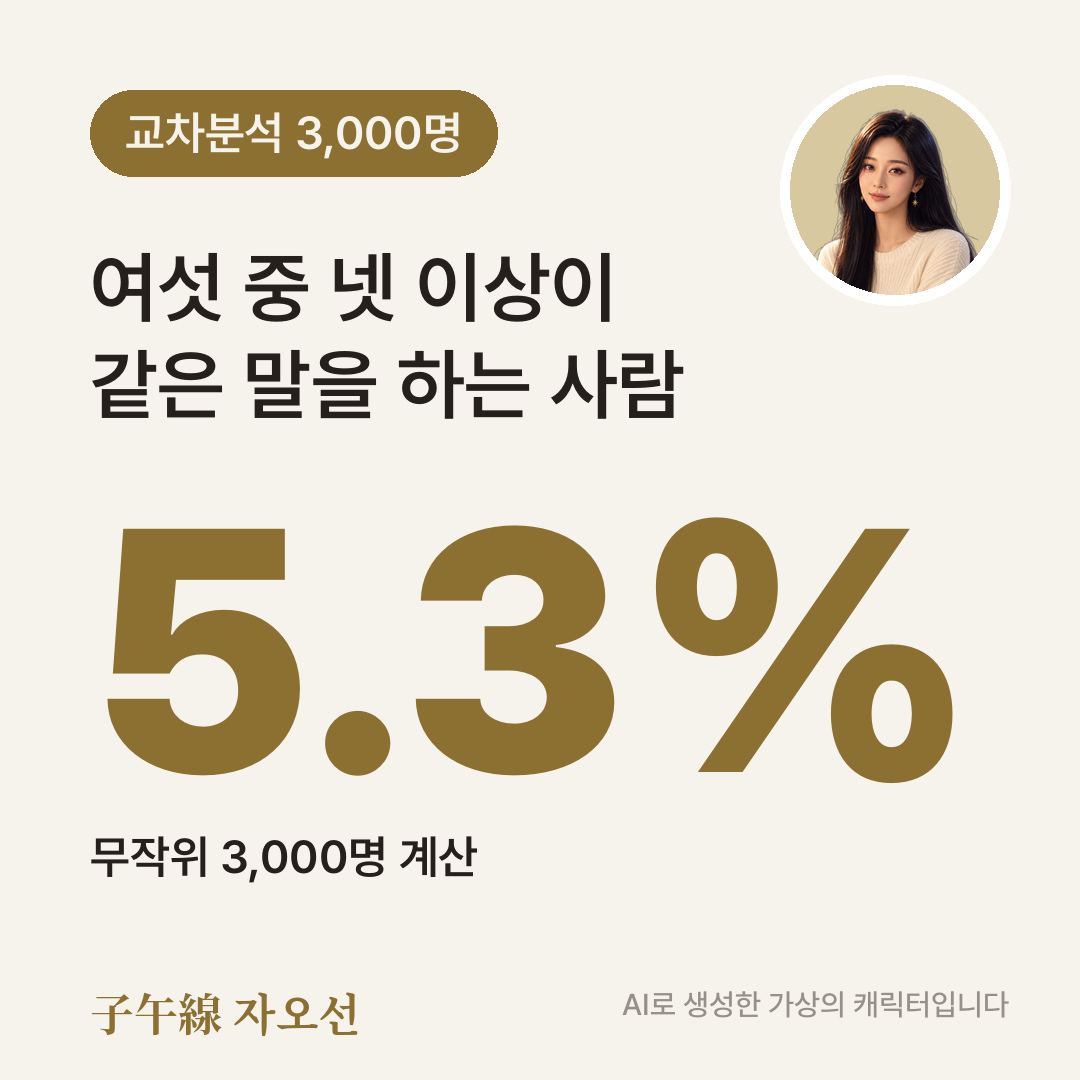
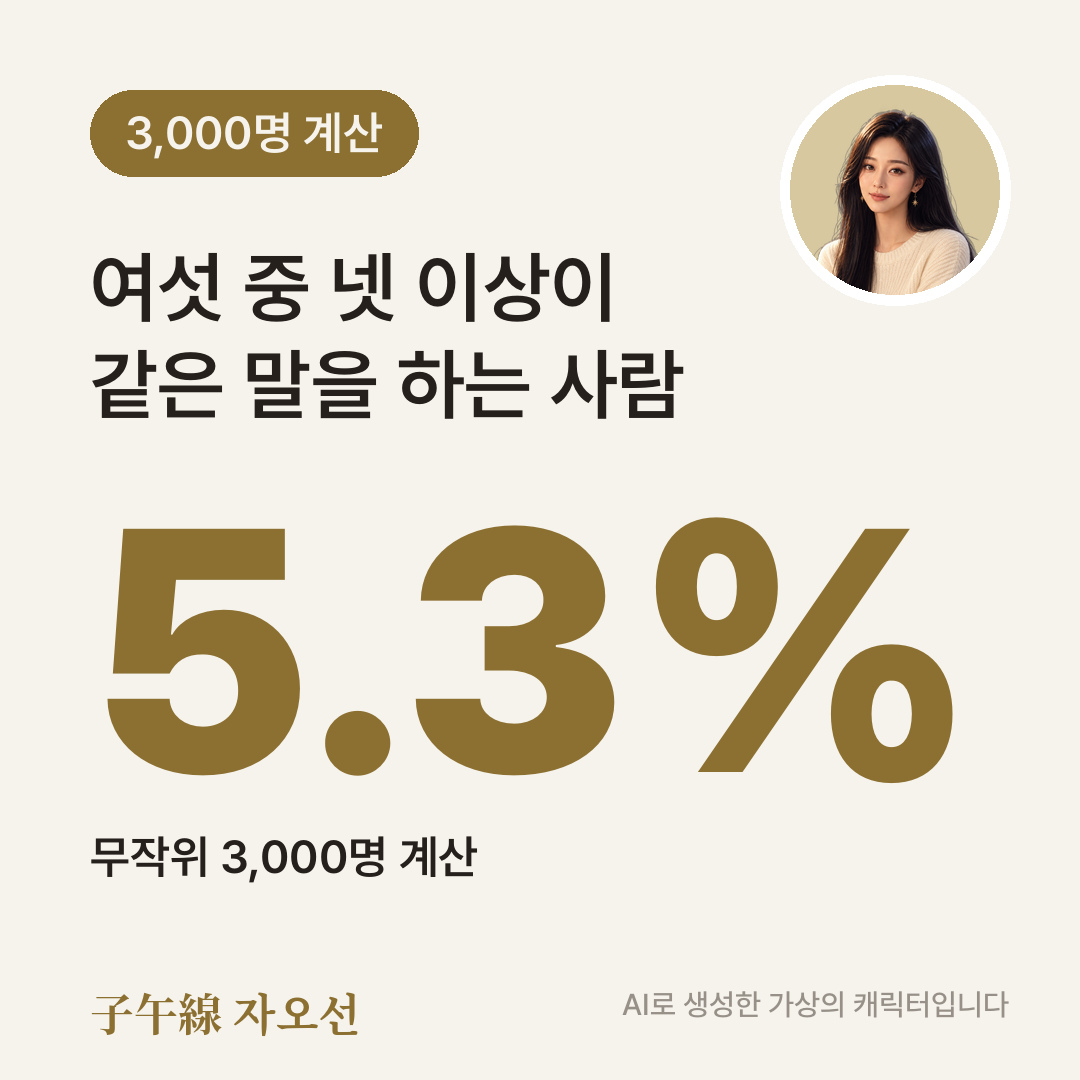
n71 제목·표지에서 교차분석 제거, 정본 작업 인계

Changed region(s): [[0.1222, 0.0611, 0.4583, 0.1833]]

diff --git a/naver/build_naver_71.py b/naver/build_naver_71.py
@@ -7,10 +7,10 @@ HERE1 = os.path.dirname(os.path.abspath(__file__)); sys.path.insert(0, HERE1)
 _src = open(os.path.join(HERE1, "build_naver_47_52.py"), encoding="utf-8").read()
 exec(compile(_src.split("# ================= 47편")[0], "head47", "exec"), globals())
 from urllib.parse import quote
-TITLE = "사주·점성술·자미두수 교차분석, 같은 말을 하는 확률 3,000명 결과"
+TITLE = "사주·점성술·자미두수가 같은 말을 하는 확률, 3,000명 결과"
 assert len(TITLE) <= 40, len(TITLE)
 art(71, "2026-11-01", "12:00", "v2_straight", "쇠", False,
- dict(d="BIG", kick="교차분석 3,000명", hook=["여섯 중 넷 이상이", "같은 말을 하는 사람"], big="5.3%", sub="무작위 3,000명 계산"),
+ dict(d="BIG", kick="3,000명 계산", hook=["여섯 중 넷 이상이", "같은 말을 하는 사람"], big="5.3%", sub="무작위 3,000명 계산"),
  TITLE,
  ["사주는 이렇다는데 별자리는 다르다고 해서, 어느 쪽 말이 맞는지 헷갈렸던 적 있으세요?", "<b>여섯 운명학이 같은 말을 하는 확률</b>을 무작위 3,000명으로 계산해 봤어요. 안녕하세요, 자오선의 정월이에요."],
  ["📊 <b>한 줄 요약</b>: 여섯 중 네 개 이상이 같은 방향을 가리킨 사람은 100명 중 5명이었어요.", "여섯 개가 모두 같은 사람은 3,000명 중 한 명도 없었어요.", "🧭 <b>세 가지</b>: 계산 방법, 몇 개가 같은 말을 하는지, 사주만 혼자 다른 사람", "✔ <b>해 볼 것</b>: 내 사주와 별자리가 같은 말을 하는지 한 줄로 적어 보세요."],

diff --git a/HANDOFF.md b/HANDOFF.md
@@ -1181,3 +1181,10 @@ README "2주마다 하는 일" 그대로. 요점만:
 - docs/유입검색어_분석_2026-09-29_10-06.md, content/inflow_2026-10/data.py. 캘린더 주제 9곳을 근거 줄과 함께 교체(화면 날짜 카드에 "근거" 표시), 띠 글 8편에 행운 한 줄, n71 제목에 세 운명학 이름
 - 승인: 말·양·닭·쥐띠 v3 릴스 4편 + 돼지띠를 새 틀로 다시 만들어 같은 칸에 덮어쓰기(reel_swaps 메모에 기록). 아직 만들지 않음 - 다음 순서
 - 대표 판단 대기: 양띠 글(n04, 11/7 네이버 예약됨) 앞당기기
+
+## 10/7 밤: 운영 정본 v1 + 분석 문서 보관 (대표 "올려 준 문서는 정본이 아니어도 저장하고, 비교분석해서 정본을 만들어라")
+- 보관: zaoseon-site docs/참고문서/ (통합 운영 매뉴얼·블로그 원고 템플릿·릴스 플레이북 PDF 원본과 글자 추출본, 표현가이드·세계관 프로젝트판). 파일은 고치지 않는다
+- 정본: zaoseon-site docs/정본/자오선_운영_정본_v1.md, 대조 대장 docs/정본/규칙_대조_2026-10-07.md·.json(81개: 이미 같음 17·채택 3·수정 채택 32·기각 23·보류 6). 대표 화면 https://claude.ai/artifact/K5ozSfcoDBsDmhGdt1mKVo
+- 우선순위: 법·규제 > 대표 확정(R01~R23·콘텐츠 원칙·운영 규칙) > 우리 실측 > 외부 권고(채택분만)
+- 발견: 통합 매뉴얼의 하락이수·당사주 설명 오류, 블로그 예시 원고 계산 누락, 릴스 플레이북 계정 구간 오류, 세계관의 1인칭 인간 서사와 AI 고지 충돌
+- 고침: n71 제목·표지에 쓴 '교차분석'을 뺌(제작 가이드 1-2: 제목·첫 줄에 쓰지 않음) -> 제목 '사주·점성술·자미두수가 같은 말을 하는 확률, 3,000명 결과'
